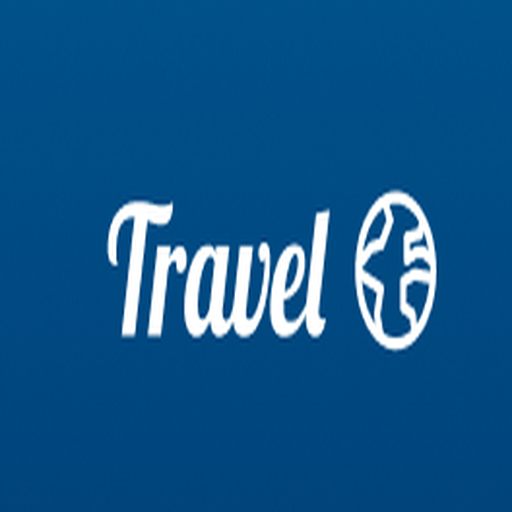
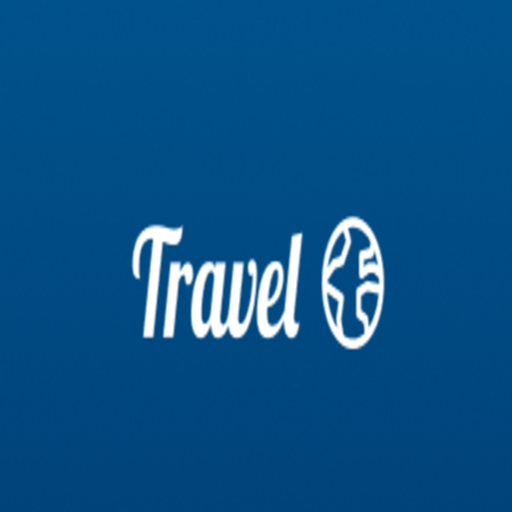
edite splash

Changed region(s): [[0.1875, 0.3438, 0.875, 0.6875]]

diff --git a/src/screen/HomeScreen.js b/src/screen/HomeScreen.js
@@ -1,11 +1,10 @@
-import { Image, StyleSheet, Text, View, TextInput, ImageBackground, Touchable, TouchableOpacity, Dimensions,ScrollView } from 'react-native'
+import { Image, StyleSheet, Text, View, TextInput, ImageBackground, Touchable, TouchableOpacity, Dimensions, ScrollView } from 'react-native'
 import React from 'react'
 import Feather from 'react-native-vector-icons/Feather';
 import Fontisto from 'react-native-vector-icons/Fontisto';
 import FontAwesome from 'react-native-vector-icons/FontAwesome';
 import EvilIcons from 'react-native-vector-icons/EvilIcons';
 import Entypo from 'react-native-vector-icons/Entypo';
-import { name } from './../../node_modules/csso/node_modules/css-tree/lib/syntax/node/AtrulePrelude';
 import { Fonts } from '../assets/fonts/fonts';
 import Setting from '../assets/icon/Setting.svg';
 import { scale, verticalScale, moderateScale } from 'react-native-size-matters';
@@ -19,49 +18,96 @@ const HomeScreen = ({ navigation }) => {
                 showsVerticalScrollIndicator={false}
                 contentContainerStyle={{ paddingBottom: height * 0.1 }}
             >
-            <View style={styles.topContainer}>
-                <Text style={styles.HiText}>Hi, David 👋</Text>
-                <Image
-                    source={require("../assets/David.png")}
-                    style={styles.DavidImage}
-                />
-            </View>
-
-            <View style={styles.ExCon}>
-                <Text style={styles.ExText}>Explore the world</Text>
-            </View>
-            <View style={styles.inputContainer}>
-                <TextInput style={styles.textInput}
-                    placeholder='Search places'
-                    placeholderTextColor="#888888" />
-                <View style={styles.verticalLine} />
-                <Setting  size={width * 0.065} color={"#888888aa"} marginRight={20} />
-
-            </View>
-            <View style={styles.PPCon}>
-                <Text style={styles.PPText}> Populer Places</Text>
-                <Text style={styles.ViewaAllText}> View all </Text>
-            </View>
-            <View style={styles.boxCon}>
-                <View style={styles.box1Con}>
-                    <Text style={styles.MVText}> Most Viewed </Text>
+                <View style={styles.topContainer}>
+                    <Text style={styles.HiText}>Hi, David 👋</Text>
+                    <Image
+                        source={require("../assets/David.png")}
+                        style={styles.DavidImage}
+                    />
                 </View>
-                <TouchableOpacity onPress={() => navigation.navigate('Neabry')}>
 
-                    <View style={styles.box2Con}>
-                        <Text style={styles.neabryText}> Neabry </Text>
+                <View style={styles.ExCon}>
+                    <Text style={styles.ExText}>Explore the world</Text>
+                </View>
+                <View style={styles.inputContainer}>
+                    <TextInput style={styles.textInput}
+                        placeholder='Search places'
+                        placeholderTextColor="#888888" />
+                    <View style={styles.verticalLine} />
+                    <Setting size={width * 0.065} color={"#888888aa"} marginRight={20} />
+
+                </View>
+                <View style={styles.PPCon}>
+                    <Text style={styles.PPText}> Populer Places</Text>
+                    <Text style={styles.ViewaAllText}> View all </Text>
+                </View>
+                <View style={styles.boxCon}>
+                    <View style={styles.box1Con}>
+                        <Text style={styles.MVText}> Most Viewed </Text>
                     </View>
-                </TouchableOpacity>
+                    <TouchableOpacity onPress={() => navigation.navigate('Neabry')}>
 
-                <View style={styles.box3Con}>
-                    <Text style={styles.latestext}> Latest </Text>
+                        <View style={styles.box2Con}>
+                            <Text style={styles.neabryText}> Neabry </Text>
+                        </View>
+                    </TouchableOpacity>
+
+                    <View style={styles.box3Con}>
+                        <Text style={styles.latestext}> Latest </Text>
+                    </View>
                 </View>
-            </View>
-            <View style={styles.MFTimageContainer}>
-                <View style={styles.imageWrapper}>
-                    <TouchableOpacity
-                        onPress={() => navigation.navigate("BookFuji")}
+                <View style={styles.MFTimageContainer}>
+                    <ScrollView
+                        horizontal // يخلي السكرول من اليمين لليسار بدل فوق لتحت
+                        showsHorizontalScrollIndicator={false}  // في شريط يطلع يبين لمن تحرك يمين ويسار هذا الامر يخفيه  
+                        contentContainerStyle={{ paddingHorizontal: scale(10) }} // يسوي مسافه من اليمين ويسار بحيث ان العناصر ما تلصق في الشاشه 
                     >
+                        <TouchableOpacity
+                            onPress={() => navigation.navigate("BookFuji")}
+                        >
+                            <ImageBackground
+                                source={require("../assets/MFT.png")}
+                                style={styles.MFTImage}
+                                imageStyle={{ borderRadius: 15 }}
+
+                            >
+                                <View style={styles.imageIconCon}>
+                                    <Fontisto name={"heart-alt"} size={width * 0.045} color={"#ffffffff"} style={styles.imgeIcon} />
+                                </View>
+
+                                <View style={styles.imgTextCon}>
+
+                                    <Text style={styles.title}>Mount Fuji, Tokyo</Text>
+                                    <View style={{ flexDirection: 'row', alignItems: 'center' }}>
+                                        <EvilIcons name={"location"} size={width * 0.071} color={"#cac8c8"}
+                                            style={styles.homeIcon} />
+                                        <Text style={styles.subtitle}>Tokyo, Japan          ⭐ 4.8</Text>
+
+                                    </View>
+                                </View>
+                            </ImageBackground>
+                        </TouchableOpacity>
+
+                        <TouchableOpacity
+                            onPress={() => navigation.navigate("Book")}
+                        >
+                            <ImageBackground
+                                source={require("../assets/Andes.png")}
+                                style={styles.MFT2Image}
+                                imageStyle={{ borderRadius: 15 }}
+
+                            >
+                                <View style={styles.imgTextCon}>
+                                    <Text style={styles.title}>Andes, South</Text>
+                                    <View style={{ flexDirection: 'row', alignItems: 'center' }}>
+                                        <EvilIcons name={"location"} size={width * 0.071} color={"#cac8c8"}
+                                            style={styles.homeIcon} />
+                                        <Text style={styles.subtitle}>South, America          ⭐ 4.5</Text>
+
+                                    </View>
+                                </View>
+                            </ImageBackground>
+                        </TouchableOpacity>
                         <ImageBackground
                             source={require("../assets/MFT.png")}
                             style={styles.MFTImage}
@@ -83,11 +129,6 @@ const HomeScreen = ({ navigation }) => {
                                 </View>
                             </View>
                         </ImageBackground>
-                    </TouchableOpacity>
-
-                    <TouchableOpacity
-                        onPress={() => navigation.navigate("Book")}
-                    >
                         <ImageBackground
                             source={require("../assets/Andes.png")}
                             style={styles.MFT2Image}
@@ -104,10 +145,10 @@ const HomeScreen = ({ navigation }) => {
                                 </View>
                             </View>
                         </ImageBackground>
-                    </TouchableOpacity>
+
+                    </ScrollView>
                 </View>
-            </View>
-               </ScrollView>
+            </ScrollView >
             <View style={styles.NavigationBarCon}>
                 <View style={{ alignItems: "center" }}>
                     <Entypo name={"home"} size={width * 0.064} color={"#2f2f2f"} style={styles.homeIcon} />

diff --git a/src/screen/SplashScreen.js b/src/screen/SplashScreen.js
@@ -1,32 +1,65 @@
-import { StyleSheet, Text, View, Dimensions } from 'react-native'
-import React from 'react'
+import { StyleSheet, Animated, Text, View, Dimensions } from 'react-native'
+import React, { useEffect, useRef } from 'react'
 import LinearGradient from 'react-native-linear-gradient';
 import Ionicons from 'react-native-vector-icons/Ionicons';
 import { Fonts } from '../assets/fonts/fonts';
+import Globe from '../assets/icon/Globe.svg'
 
 const { width, height } = Dimensions.get("window");
 
 
 const SplashScreen = ({ navigation }) => {
-    // الانتقال بعد ثانيتين
-    setTimeout(() => {
-        navigation.replace('Home'); 
-    }, 2000);
-    return (
-        <LinearGradient
-            colors={['#0172B2', '#001645']} // ألوان متدرجة
-            style={styles.Container}
-        >
-            <View style={styles.appIconCon}>
-                <Text style={styles.appIcon}>Travel</Text>
-                <Ionicons name={"earth-outline"} size={width * 0.12} color={"#ffffffff"} marginRight={20} />
-             </View>
-             <View style={styles.splashTextCon}>
-                <Text style={styles.splashText}>Find Your Dream</Text>
-                <Text style={styles.splashText}>Destination With Us</Text>
-             </View>
+    const fadeAnimText = useRef(new Animated.Value(0)).current;
+    const fadeAnimBg = useRef(new Animated.Value(1)).current;
 
-        </LinearGradient>
+    useEffect(() => {
+
+        Animated.sequence([
+            Animated.timing(fadeAnimText, {
+                toValue: 1,
+                duration: 1000,
+                useNativeDriver: true,
+            }),
+            Animated.delay(700),
+            Animated.timing(fadeAnimText, {
+                toValue: 0,
+                duration: 1000,
+                useNativeDriver: true,
+            }),
+            Animated.timing(fadeAnimBg, {
+                toValue: 0,
+                duration: 500,
+                useNativeDriver: true,
+            })
+        ]).start(() => {
+
+            navigation.replace('Home');
+        });
+    }, []);
+
+    return (
+        <Animated.View style={{ flex:1,opacity: fadeAnimBg, }} >
+
+            <LinearGradient
+                colors={['#0172B2', '#001645']} // ألوان متدرجة
+                style={styles.Container}
+            >
+
+                <Animated.View style={{ opacity: fadeAnimText, }} >
+                    <View style={styles.appIconCon}>
+                        <Text style={styles.appIcon}>Travel</Text>
+                        <Globe size={width * 0.14} color={"#ffffffff"} marginRight={20} />
+                    </View>
+
+                    <View style={styles.splashTextCon}>
+                        <Text style={styles.splashText}>Find Your Dream</Text>
+                        <Text style={styles.splashText}>Destination With Us</Text>
+                    </View>
+                </Animated.View>
+
+
+            </LinearGradient>
+        </Animated.View>
     )
 }
 
@@ -34,28 +67,28 @@ const SplashScreen = ({ navigation }) => {
 export default SplashScreen
 
 const styles = StyleSheet.create({
-    Container: { 
+    Container: {
         flex: 1,
-        alignItems:"center",
-        justifyContent:"center",
-        rowGap:height*0.028
-     },
-     appIconCon:{
-        flexDirection:"row",
-        alignItems:"center",
-        columnGap:width*0.02
-     },
-     appIcon:{
-        color:"#ffffff",
-        fontSize:width*0.12,
-        fontFamily:Fonts.lobster
-     },
-     splashText:{
-         color:"#ffffff",
-        fontSize:width*0.047,
-     },
-     splashTextCon:{
-        alignItems:"center"
-     }
-  
+        alignItems: "center",
+        justifyContent: "center",
+        rowGap: height * 0.028
+    },
+    appIconCon: {
+        flexDirection: "row",
+        alignItems: "center",
+
+    },
+    appIcon: {
+        color: "#ffffff",
+        fontSize: width * 0.14,
+        fontFamily: Fonts.lobster
+    },
+    splashText: {
+        color: "#ffffff",
+        fontSize: width * 0.047,
+    },
+    splashTextCon: {
+        alignItems: "center"
+    }
+
 })
